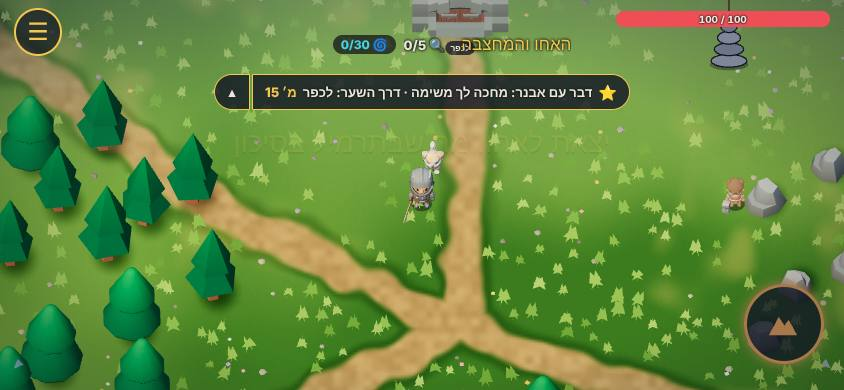
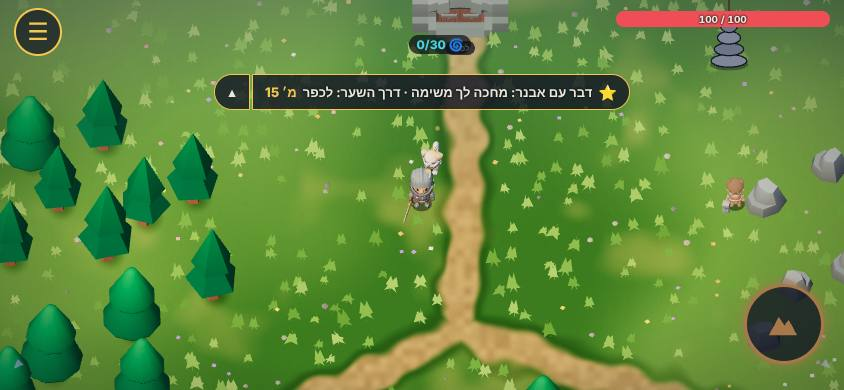
קרקע: חדה יותר, בלי מלבנים בטלפון, וצל מגע רק מתחת למה שקיים
- hash בלי sin (Dave Hoskins): בטלפון sin של מספר גדול לא מדויק ויוצר מלבנים בהירים וכהים
- אפייה ב-2.5 פיקסלים לנקודה במקום 4
- צל רק מתחת למקורות שעומדים ולשערים פתוחים, קטן ובהיר יותר. אפייה מחדש כשמקור נשבר או דרך נפתחת

Claude-Session: https://claude.ai/code/session_01ABMDoKNBLWhQc1CA9GsMjw

diff --git a/js/ground.js b/js/ground.js
@@ -15,14 +15,14 @@ const GROUND={
     storm: {base:'#5d5a6e',lush:'#454256',dry:'#7a7790',path:'#3a3846',shore:'#6e5fa6',out:'#2a2836'},
     shadow:{base:'#2a2140',lush:'#1b1430',dry:'#3c2f5a',path:'#4b3a70',shore:'#5b3f8c',out:'#0f0a18'}
   },
-  res:4,                       // כמה פיקסלים של המשחק לכל נקודה בתמונה האפויה. פחות = חד יותר וכבד יותר
+  res:2.5,                      // כמה פיקסלים של המשחק לכל נקודה בתמונה האפויה. פחות = חד יותר וכבד יותר
   margin:{w:1800,h:1600},      // כמה מעבר לגבול האזור אופים (שם הקצה הכהה). מעבר לזה: הצבע של out
   big:720,small:170,           // גודל הכתמים: הגדולים (עשיר מול בסיס) והקטנים (יבש)
   pathW:34,                    // רוחב השביל
   hub:{x:0,y:-120},            // הצומת שאליו מגיעים כל השבילים. אם הוא במים, הוא זז לשפה
   shoreW:46,shoreA:0.85,rimW:16,rimA:0.9,
   edge:{from:-40,to:90},       // הקצה הכהה: מתחיל 40 לפני הגבול ונגמר 90 אחריו
-  shadow:{dark:0.42,size:1.5,dx:0.22,dy:-0.12,decor:{tree:40,rock:32},tower:1.2,gate:40},   // צל מגע: כמה כהה, פי כמה מהרדיוס, וקצת לכיוון שהשמש מטילה
+  shadow:{dark:0.28,size:1.05,dx:0.18,dy:-0.1,decor:{tree:30,rock:24},tower:1.1,gate:34},   // צל מגע: כמה כהה, פי כמה מהרדיוס, וקצת לכיוון שהשמש מטילה
   grain:{tile:240,lo:0.72,hi:0.42},   // גרגר עדין מעל המפה (קווי עשב ונקודות), כדי שמקרוב היא לא תיראה חלקה
   maxSeg:24,maxPond:10,
   /* פיזור (שלב 3, ניר: "בינוני"): גושי עשב ופרחים שזזים ברוח, ואבנים קטנות. רק בחלון סביב השחקן, על הכתמים העשירים ולא על השבילים, במים או על מקורות.
@@ -45,13 +45,13 @@ const GROUND={
   let mat=null,bk=null,key=null,box=null;
   const rgb=h=>{const n=parseInt(h.slice(1),16);return new THREE.Vector3((n>>16&255)/255,(n>>8&255)/255,(n&255)/255)};   // צבע כמו שהוא (sRGB), בלי המרה
   const NOISE=`
-    float gH(vec2 p){return fract(sin(dot(p,vec2(127.1,311.7)))*43758.5453);}
+    float gH(vec2 p){vec3 q=fract(vec3(p.xyx)*0.1031);q+=dot(q,q.yzx+33.33);return fract((q.x+q.y)*q.z);}
     float gN(vec2 p){vec2 i=floor(p),f=fract(p),u=f*f*(3.0-2.0*f);float a=gH(i),b=gH(i+vec2(1,0)),c=gH(i+vec2(0,1)),d=gH(i+vec2(1,1));return a+(b-a)*u.x+(c-a)*u.y+(a-b-c+d)*u.x*u.y;}
     float gF(vec2 p){return 0.5*gN(p)+0.3*gN(p*2.03+vec2(1.7,9.2))+0.2*gN(p*4.01+vec2(5.1,3.3));}`;
 
   // השבילים: מכל שער אל הצומת, בעיקול קל. מהשערים של האזור, אז אזור חדש מקבל שבילים לבד
   function segs(R){
-    const gs=wGates(true),out=[],hub={x:GROUND.hub.x,y:GROUND.hub.y};
+    const gs=wGates(),out=[],hub={x:GROUND.hub.x,y:GROUND.hub.y};
     for(const p of R.ponds||[]){const dx=hub.x-p.x,dy=hub.y-p.y,d=Math.hypot(dx,dy)||1,m=p.r+GROUND.pathW*1.6;if(d<m){hub.x=p.x+dx/d*m;hub.y=p.y+dy/d*m}}
     let k=1;
     for(const id in gs){const a=gs[id],mx=(a.x+hub.x)/2,my=(a.y+hub.y)/2,dx=hub.x-a.x,dy=hub.y-a.y,L=Math.hypot(dx,dy)||1,o=(hash(k++,3)-0.5)*0.35*L,m={x:mx-dy/L*o,y:my+dx/L*o};
@@ -61,10 +61,10 @@ const GROUND={
   // צל מגע: מקורות, קישוטים מסביב, מגדלים ושערים
   function shadows(R){
     const D=GROUND.shadow,o=[];
-    for(const n of S.nd.list)o.push([n.x,n.y,n.r*D.size]);
+    for(const n of S.nd.list)if(!n.dead)o.push([n.x,n.y,n.r*D.size]);   // רק מה שעומד עכשיו
     for(const d of worldDecor())if(D.decor[d.kind])o.push([d.x,d.y,D.decor[d.kind]*(0.8+d.v*0.4)*D.size]);
     for(const t of R.towers||[])o.push([t.x,t.y,t.r*D.tower*D.size]);
-    const gs=wGates(true);for(const k in gs)o.push([gs[k].x,gs[k].y,D.gate*D.size]);
+    const gs=wGates();for(const k in gs)o.push([gs[k].x,gs[k].y,D.gate*D.size]);   // רק שערים פתוחים (דרך סגורה לא מצוירת)
     return o;
   }
 
@@ -145,7 +145,7 @@ const GROUND={
   // look-hd.js שואל בכל פריים: בעולם מקבל את החומר הזה, ובכל מקום אחר null (נשארת הקרקע של שלב 1)
   GROUND.mat=()=>{
     if(GROUND.failed||!on()||!(S&&S.wd&&!S.vil&&!S.room))return null;
-    const reg=S.wd.reg||'meadow',k=reg+':'+S.nd.list.length;   // אם המקורות עוד לא היו כשנאפה, אופים שוב עם הצללים שלהם
+    const reg=S.wd.reg||'meadow',k=reg+':'+S.nd.list.filter(n=>!n.dead).length+':'+Object.keys(wGates()).length;   // מקור שנשבר או צמח, או דרך שנפתחה: אופים שוב (1-2ms)
     try{if(k!==key){key=k;bake(reg)}}catch(e){GROUND.failed=e.message;console.warn('ground',e);return null}   // תקלה: נשארת הקרקע של שלב 1
     if(!mat)mat=makeMat();
     const u=mat.userData.u;u.gBake.value=bk.texture;u.gBox.value.copy(box);u.gSin.value=SIN();
@@ -154,7 +154,7 @@ const GROUND={
 
   // ---- פיזור: עשב, פרחים ואבנים ----
   // אותו רעש כמו בשיידר, ב-JS, כדי שהעשב ישב על הכתמים העשירים של המפה
-  const hh=(x,y)=>{const t=Math.sin(x*127.1+y*311.7)*43758.5453;return t-Math.floor(t)};
+  const fr=v=>v-Math.floor(v),hh=(x,y)=>{let a=fr(x*0.1031),b=fr(y*0.1031),c=a;const d=a*(b+33.33)+b*(c+33.33)+c*(a+33.33);a+=d;b+=d;c+=d;return fr((a+b)*c)};   // אותו hash כמו בשיידר
   const vn=(x,y)=>{const ix=Math.floor(x),iy=Math.floor(y),fx=x-ix,fy=y-iy,ux=fx*fx*(3-2*fx),uy=fy*fy*(3-2*fy),a=hh(ix,iy),b=hh(ix+1,iy),c=hh(ix,iy+1),d=hh(ix+1,iy+1);return a+(b-a)*ux+(c-a)*uy+(a-b-c+d)*ux*uy};
   const fbm=(x,y)=>0.5*vn(x,y)+0.3*vn(x*2.03+1.7,y*2.03+9.2)+0.2*vn(x*4.01+5.1,y*4.01+3.3);
   const dSeg=(x,y,q)=>{const bx=q[2]-q[0],by=q[3]-q[1],t=Math.max(0,Math.min(1,((x-q[0])*bx+(y-q[1])*by)/(bx*bx+by*by||1)));return Math.hypot(x-q[0]-bx*t,y-q[1]-by*t)};
